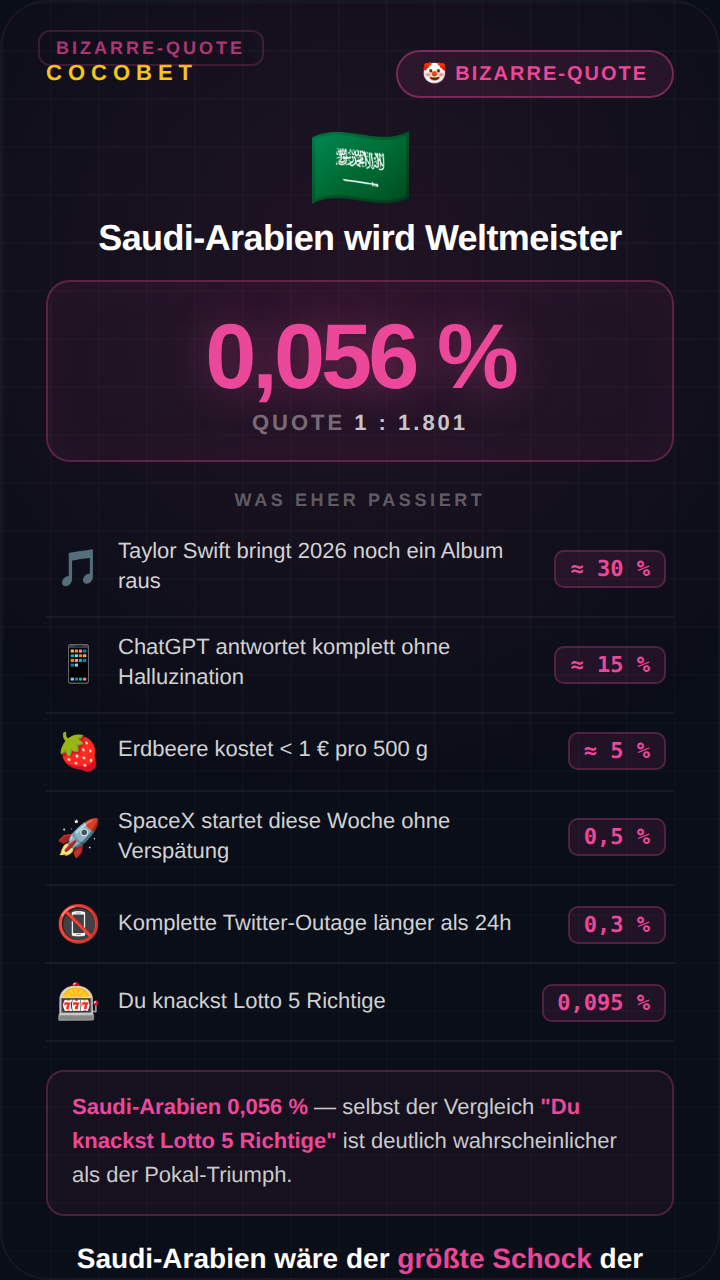
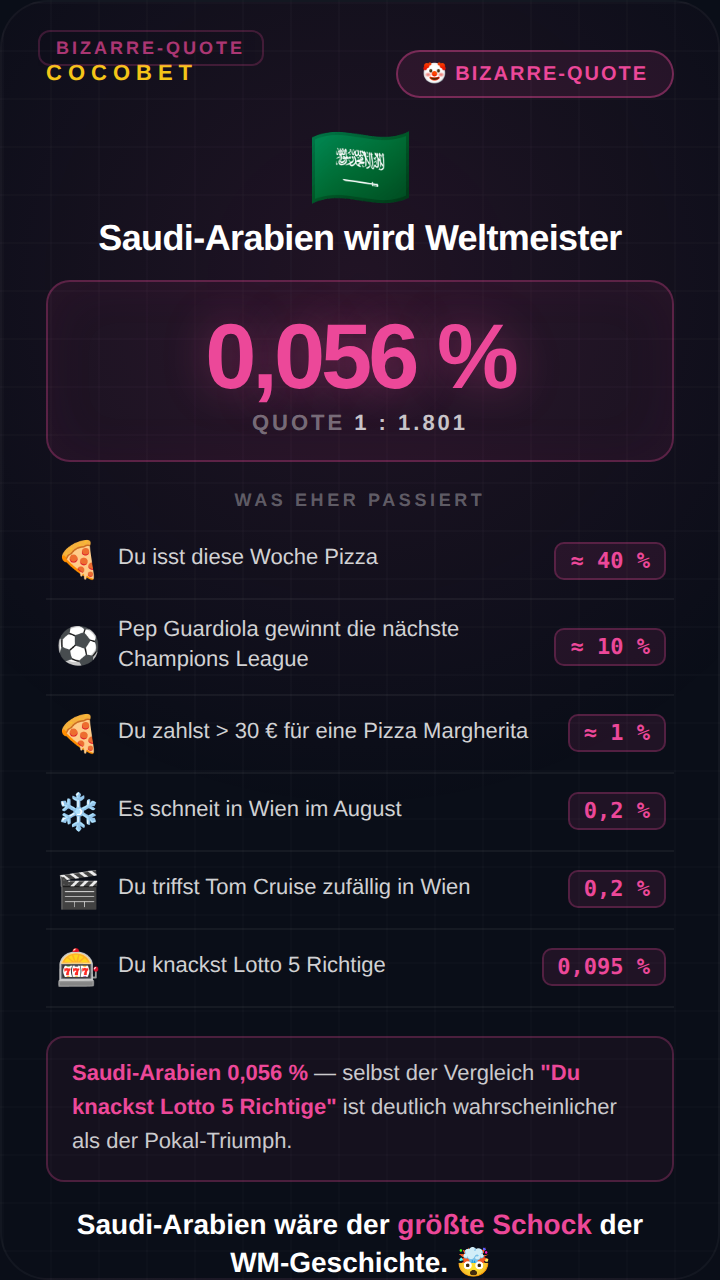
🎬 Daily TikTok-Cards 08.06.2026

diff --git a/daily-tiktok/2026-06-08_bizarre_info.html b/daily-tiktok/2026-06-08_bizarre_info.html
@@ -71,7 +71,7 @@ body { background:#0a0e18; display:flex; align-items:center; justify-content:cen
   </div>
 
   <div class="list-title">Was eher passiert</div>
-  <div class="comp-list"><div style="display:flex;align-items:center;gap:8px;padding:8px 4px;border-bottom:1px solid rgba(255,255,255,0.05);"><div style="font-size:18px;flex-shrink:0;width:24px;text-align:center;">🎵</div><div style="font-size:11px;color:rgba(255,255,255,.82);line-height:1.4;flex:1;">Taylor Swift bringt 2026 noch ein Album raus</div><div style="font-size:11px;font-weight:800;color:#ec4899;font-family:'SF Mono',Menlo,monospace;background:rgba(236,72,153,0.10);border:1px solid rgba(236,72,153,0.25);border-radius:5px;padding:2px 7px;flex-shrink:0;">≈ 30 %</div></div><div style="display:flex;align-items:center;gap:8px;padding:8px 4px;border-bottom:1px solid rgba(255,255,255,0.05);"><div style="font-size:18px;flex-shrink:0;width:24px;text-align:center;">📱</div><div style="font-size:11px;color:rgba(255,255,255,.82);line-height:1.4;flex:1;">ChatGPT antwortet komplett ohne Halluzination</div><div style="font-size:11px;font-weight:800;color:#ec4899;font-family:'SF Mono',Menlo,monospace;background:rgba(236,72,153,0.10);border:1px solid rgba(236,72,153,0.25);border-radius:5px;padding:2px 7px;flex-shrink:0;">≈ 15 %</div></div><div style="display:flex;align-items:center;gap:8px;padding:8px 4px;border-bottom:1px solid rgba(255,255,255,0.05);"><div style="font-size:18px;flex-shrink:0;width:24px;text-align:center;">🍓</div><div style="font-size:11px;color:rgba(255,255,255,.82);line-height:1.4;flex:1;">Erdbeere kostet &lt; 1 € pro 500 g</div><div style="font-size:11px;font-weight:800;color:#ec4899;font-family:'SF Mono',Menlo,monospace;background:rgba(236,72,153,0.10);border:1px solid rgba(236,72,153,0.25);border-radius:5px;padding:2px 7px;flex-shrink:0;">≈ 5 %</div></div><div style="display:flex;align-items:center;gap:8px;padding:8px 4px;border-bottom:1px solid rgba(255,255,255,0.05);"><div style="font-size:18px;flex-shrink:0;width:24px;text-align:center;">🚀</div><div style="font-size:11px;color:rgba(255,255,255,.82);line-height:1.4;flex:1;">SpaceX startet diese Woche ohne Verspätung</div><div style="font-size:11px;font-weight:800;color:#ec4899;font-family:'SF Mono',Menlo,monospace;background:rgba(236,72,153,0.10);border:1px solid rgba(236,72,153,0.25);border-radius:5px;padding:2px 7px;flex-shrink:0;">0,5 %</div></div><div style="display:flex;align-items:center;gap:8px;padding:8px 4px;border-bottom:1px solid rgba(255,255,255,0.05);"><div style="font-size:18px;flex-shrink:0;width:24px;text-align:center;">📵</div><div style="font-size:11px;color:rgba(255,255,255,.82);line-height:1.4;flex:1;">Komplette Twitter-Outage länger als 24h</div><div style="font-size:11px;font-weight:800;color:#ec4899;font-family:'SF Mono',Menlo,monospace;background:rgba(236,72,153,0.10);border:1px solid rgba(236,72,153,0.25);border-radius:5px;padding:2px 7px;flex-shrink:0;">0,3 %</div></div><div style="display:flex;align-items:center;gap:8px;padding:8px 4px;border-bottom:1px solid rgba(255,255,255,0.05);"><div style="font-size:18px;flex-shrink:0;width:24px;text-align:center;">🎰</div><div style="font-size:11px;color:rgba(255,255,255,.82);line-height:1.4;flex:1;">Du knackst Lotto 5 Richtige</div><div style="font-size:11px;font-weight:800;color:#ec4899;font-family:'SF Mono',Menlo,monospace;background:rgba(236,72,153,0.10);border:1px solid rgba(236,72,153,0.25);border-radius:5px;padding:2px 7px;flex-shrink:0;">0,095 %</div></div></div>
+  <div class="comp-list"><div style="display:flex;align-items:center;gap:8px;padding:8px 4px;border-bottom:1px solid rgba(255,255,255,0.05);"><div style="font-size:18px;flex-shrink:0;width:24px;text-align:center;">🍕</div><div style="font-size:11px;color:rgba(255,255,255,.82);line-height:1.4;flex:1;">Du isst diese Woche Pizza</div><div style="font-size:11px;font-weight:800;color:#ec4899;font-family:'SF Mono',Menlo,monospace;background:rgba(236,72,153,0.10);border:1px solid rgba(236,72,153,0.25);border-radius:5px;padding:2px 7px;flex-shrink:0;">≈ 40 %</div></div><div style="display:flex;align-items:center;gap:8px;padding:8px 4px;border-bottom:1px solid rgba(255,255,255,0.05);"><div style="font-size:18px;flex-shrink:0;width:24px;text-align:center;">⚽</div><div style="font-size:11px;color:rgba(255,255,255,.82);line-height:1.4;flex:1;">Pep Guardiola gewinnt die nächste Champions League</div><div style="font-size:11px;font-weight:800;color:#ec4899;font-family:'SF Mono',Menlo,monospace;background:rgba(236,72,153,0.10);border:1px solid rgba(236,72,153,0.25);border-radius:5px;padding:2px 7px;flex-shrink:0;">≈ 10 %</div></div><div style="display:flex;align-items:center;gap:8px;padding:8px 4px;border-bottom:1px solid rgba(255,255,255,0.05);"><div style="font-size:18px;flex-shrink:0;width:24px;text-align:center;">🍕</div><div style="font-size:11px;color:rgba(255,255,255,.82);line-height:1.4;flex:1;">Du zahlst &gt; 30 € für eine Pizza Margherita</div><div style="font-size:11px;font-weight:800;color:#ec4899;font-family:'SF Mono',Menlo,monospace;background:rgba(236,72,153,0.10);border:1px solid rgba(236,72,153,0.25);border-radius:5px;padding:2px 7px;flex-shrink:0;">≈ 1 %</div></div><div style="display:flex;align-items:center;gap:8px;padding:8px 4px;border-bottom:1px solid rgba(255,255,255,0.05);"><div style="font-size:18px;flex-shrink:0;width:24px;text-align:center;">❄</div><div style="font-size:11px;color:rgba(255,255,255,.82);line-height:1.4;flex:1;">Es schneit in Wien im August</div><div style="font-size:11px;font-weight:800;color:#ec4899;font-family:'SF Mono',Menlo,monospace;background:rgba(236,72,153,0.10);border:1px solid rgba(236,72,153,0.25);border-radius:5px;padding:2px 7px;flex-shrink:0;">0,2 %</div></div><div style="display:flex;align-items:center;gap:8px;padding:8px 4px;border-bottom:1px solid rgba(255,255,255,0.05);"><div style="font-size:18px;flex-shrink:0;width:24px;text-align:center;">🎬</div><div style="font-size:11px;color:rgba(255,255,255,.82);line-height:1.4;flex:1;">Du triffst Tom Cruise zufällig in Wien</div><div style="font-size:11px;font-weight:800;color:#ec4899;font-family:'SF Mono',Menlo,monospace;background:rgba(236,72,153,0.10);border:1px solid rgba(236,72,153,0.25);border-radius:5px;padding:2px 7px;flex-shrink:0;">0,2 %</div></div><div style="display:flex;align-items:center;gap:8px;padding:8px 4px;border-bottom:1px solid rgba(255,255,255,0.05);"><div style="font-size:18px;flex-shrink:0;width:24px;text-align:center;">🎰</div><div style="font-size:11px;color:rgba(255,255,255,.82);line-height:1.4;flex:1;">Du knackst Lotto 5 Richtige</div><div style="font-size:11px;font-weight:800;color:#ec4899;font-family:'SF Mono',Menlo,monospace;background:rgba(236,72,153,0.10);border:1px solid rgba(236,72,153,0.25);border-radius:5px;padding:2px 7px;flex-shrink:0;">0,095 %</div></div></div>
 
   <div class="closing-box">
     <div class="closing-text"><strong>Saudi-Arabien 0,056 %</strong> — selbst der Vergleich <strong>"Du knackst Lotto 5 Richtige"</strong> ist deutlich wahrscheinlicher als der Pokal-Triumph.</div>
